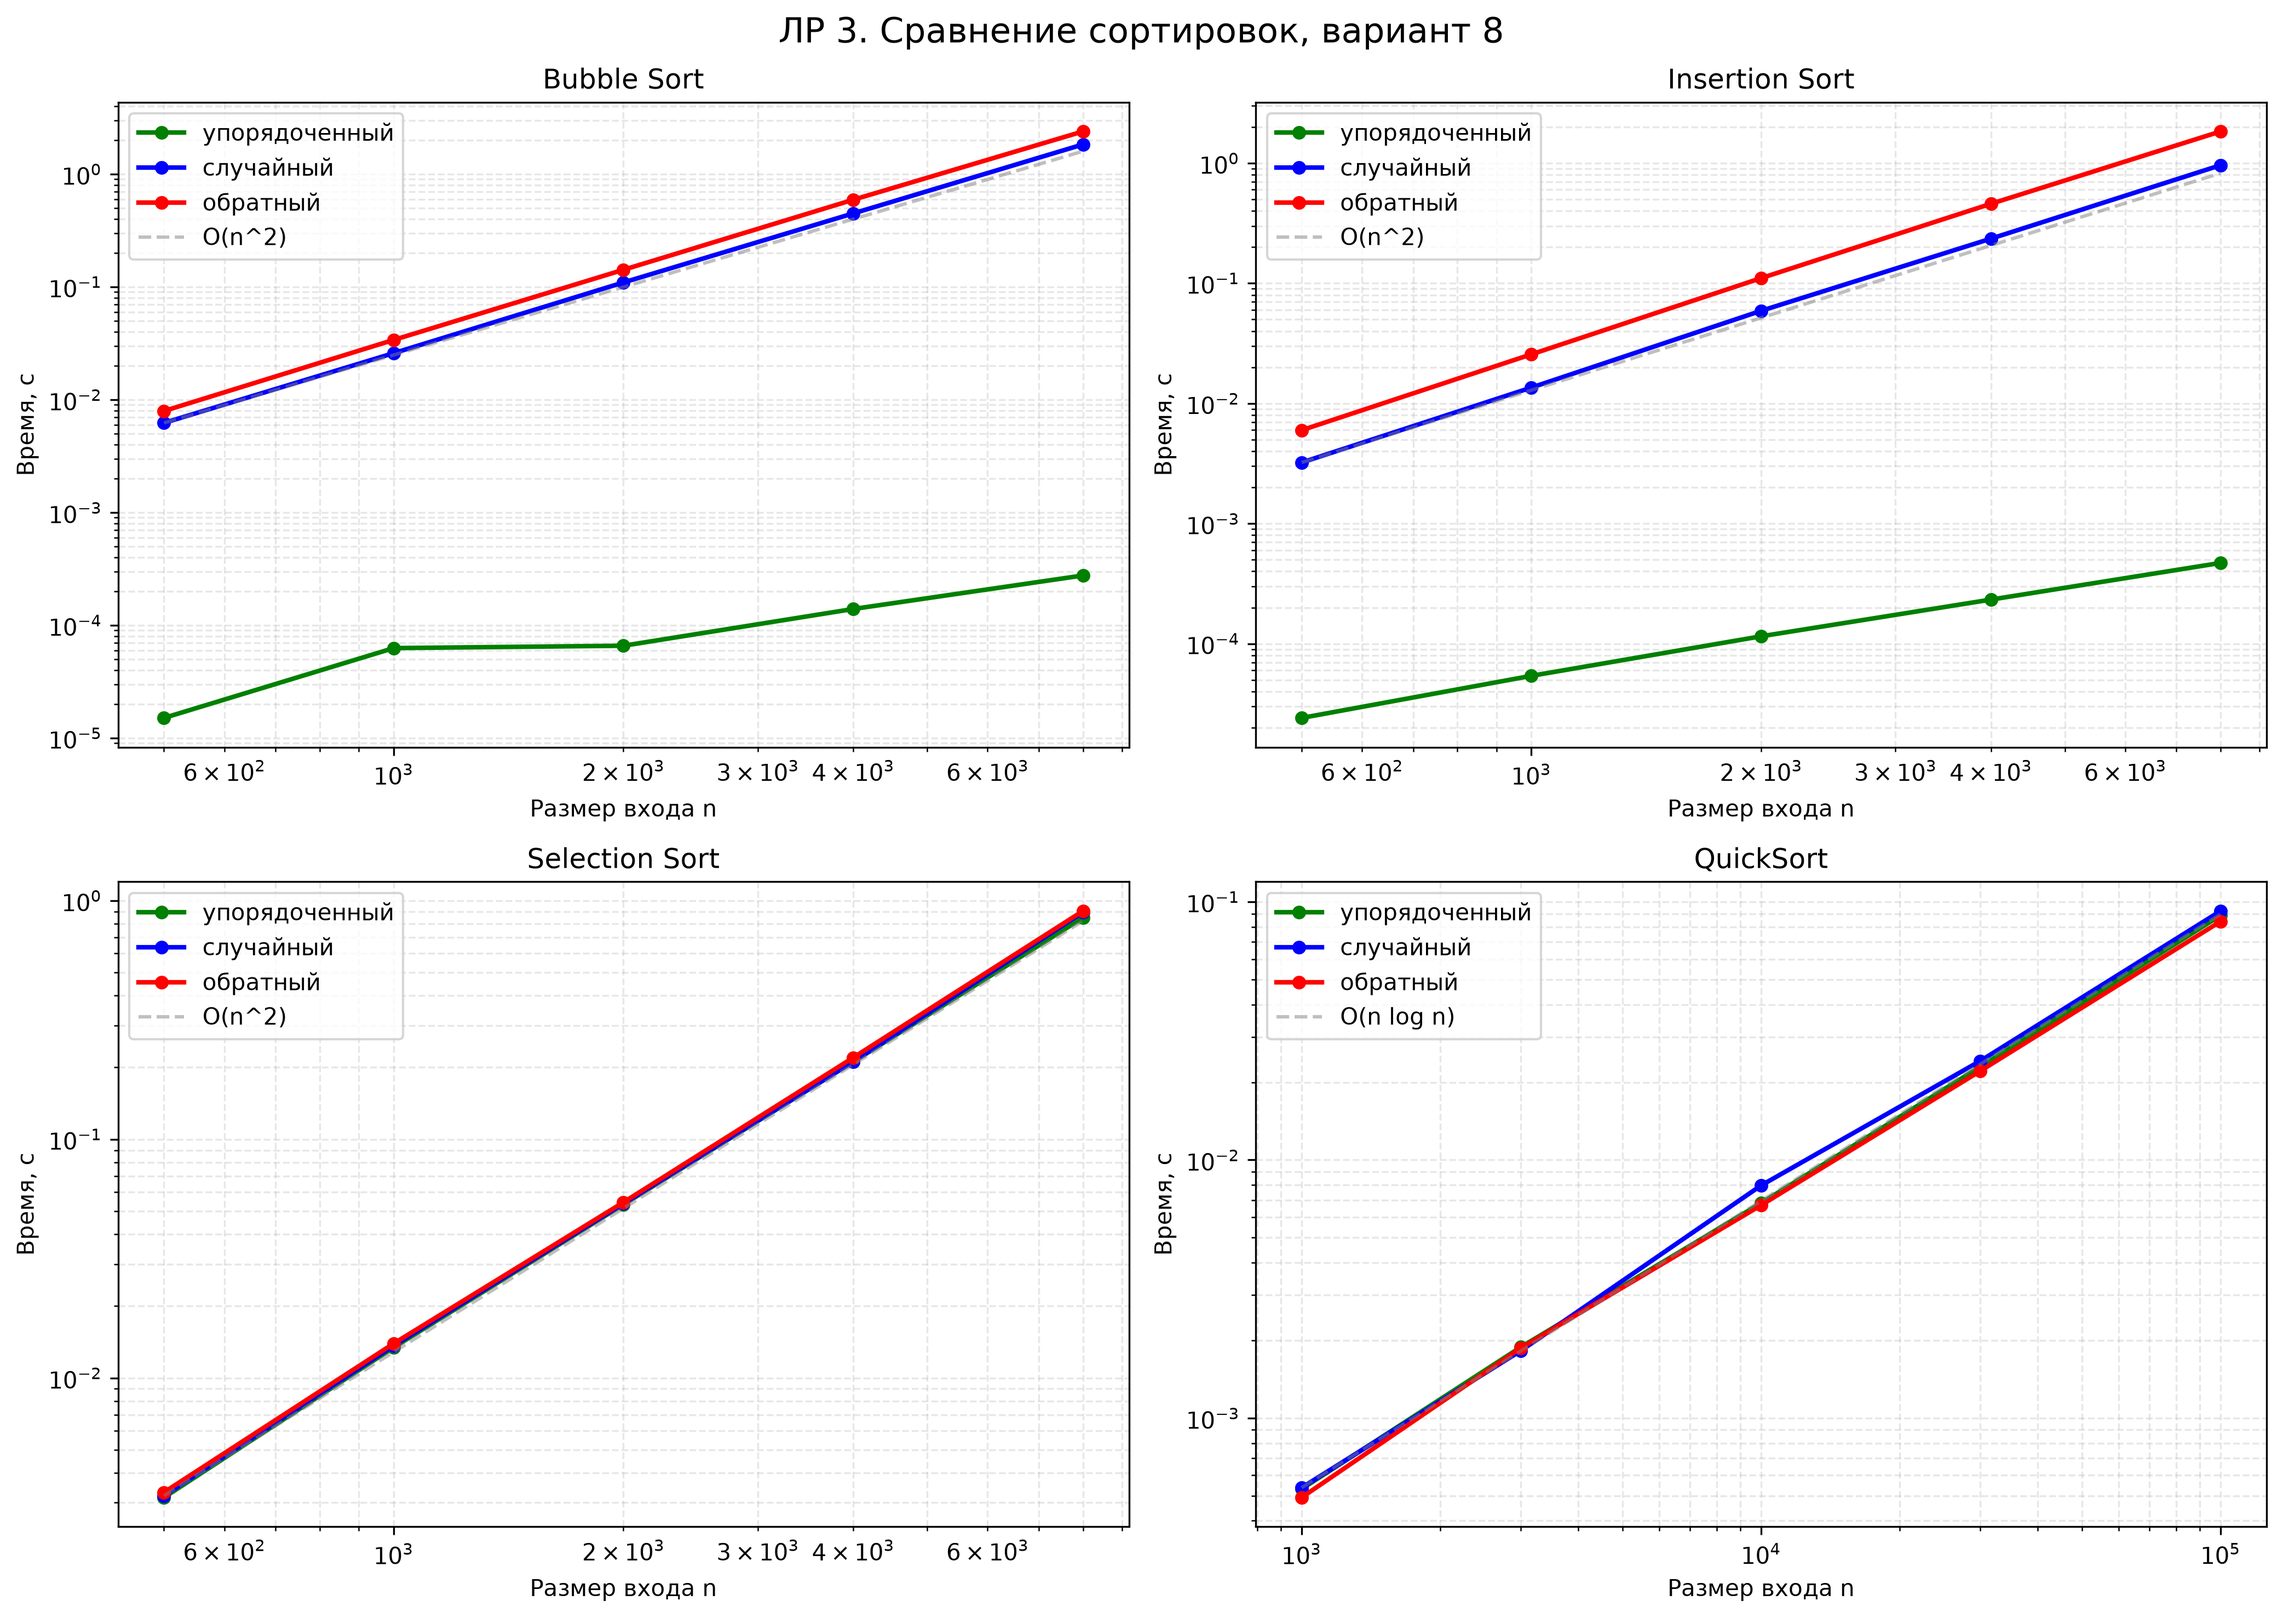
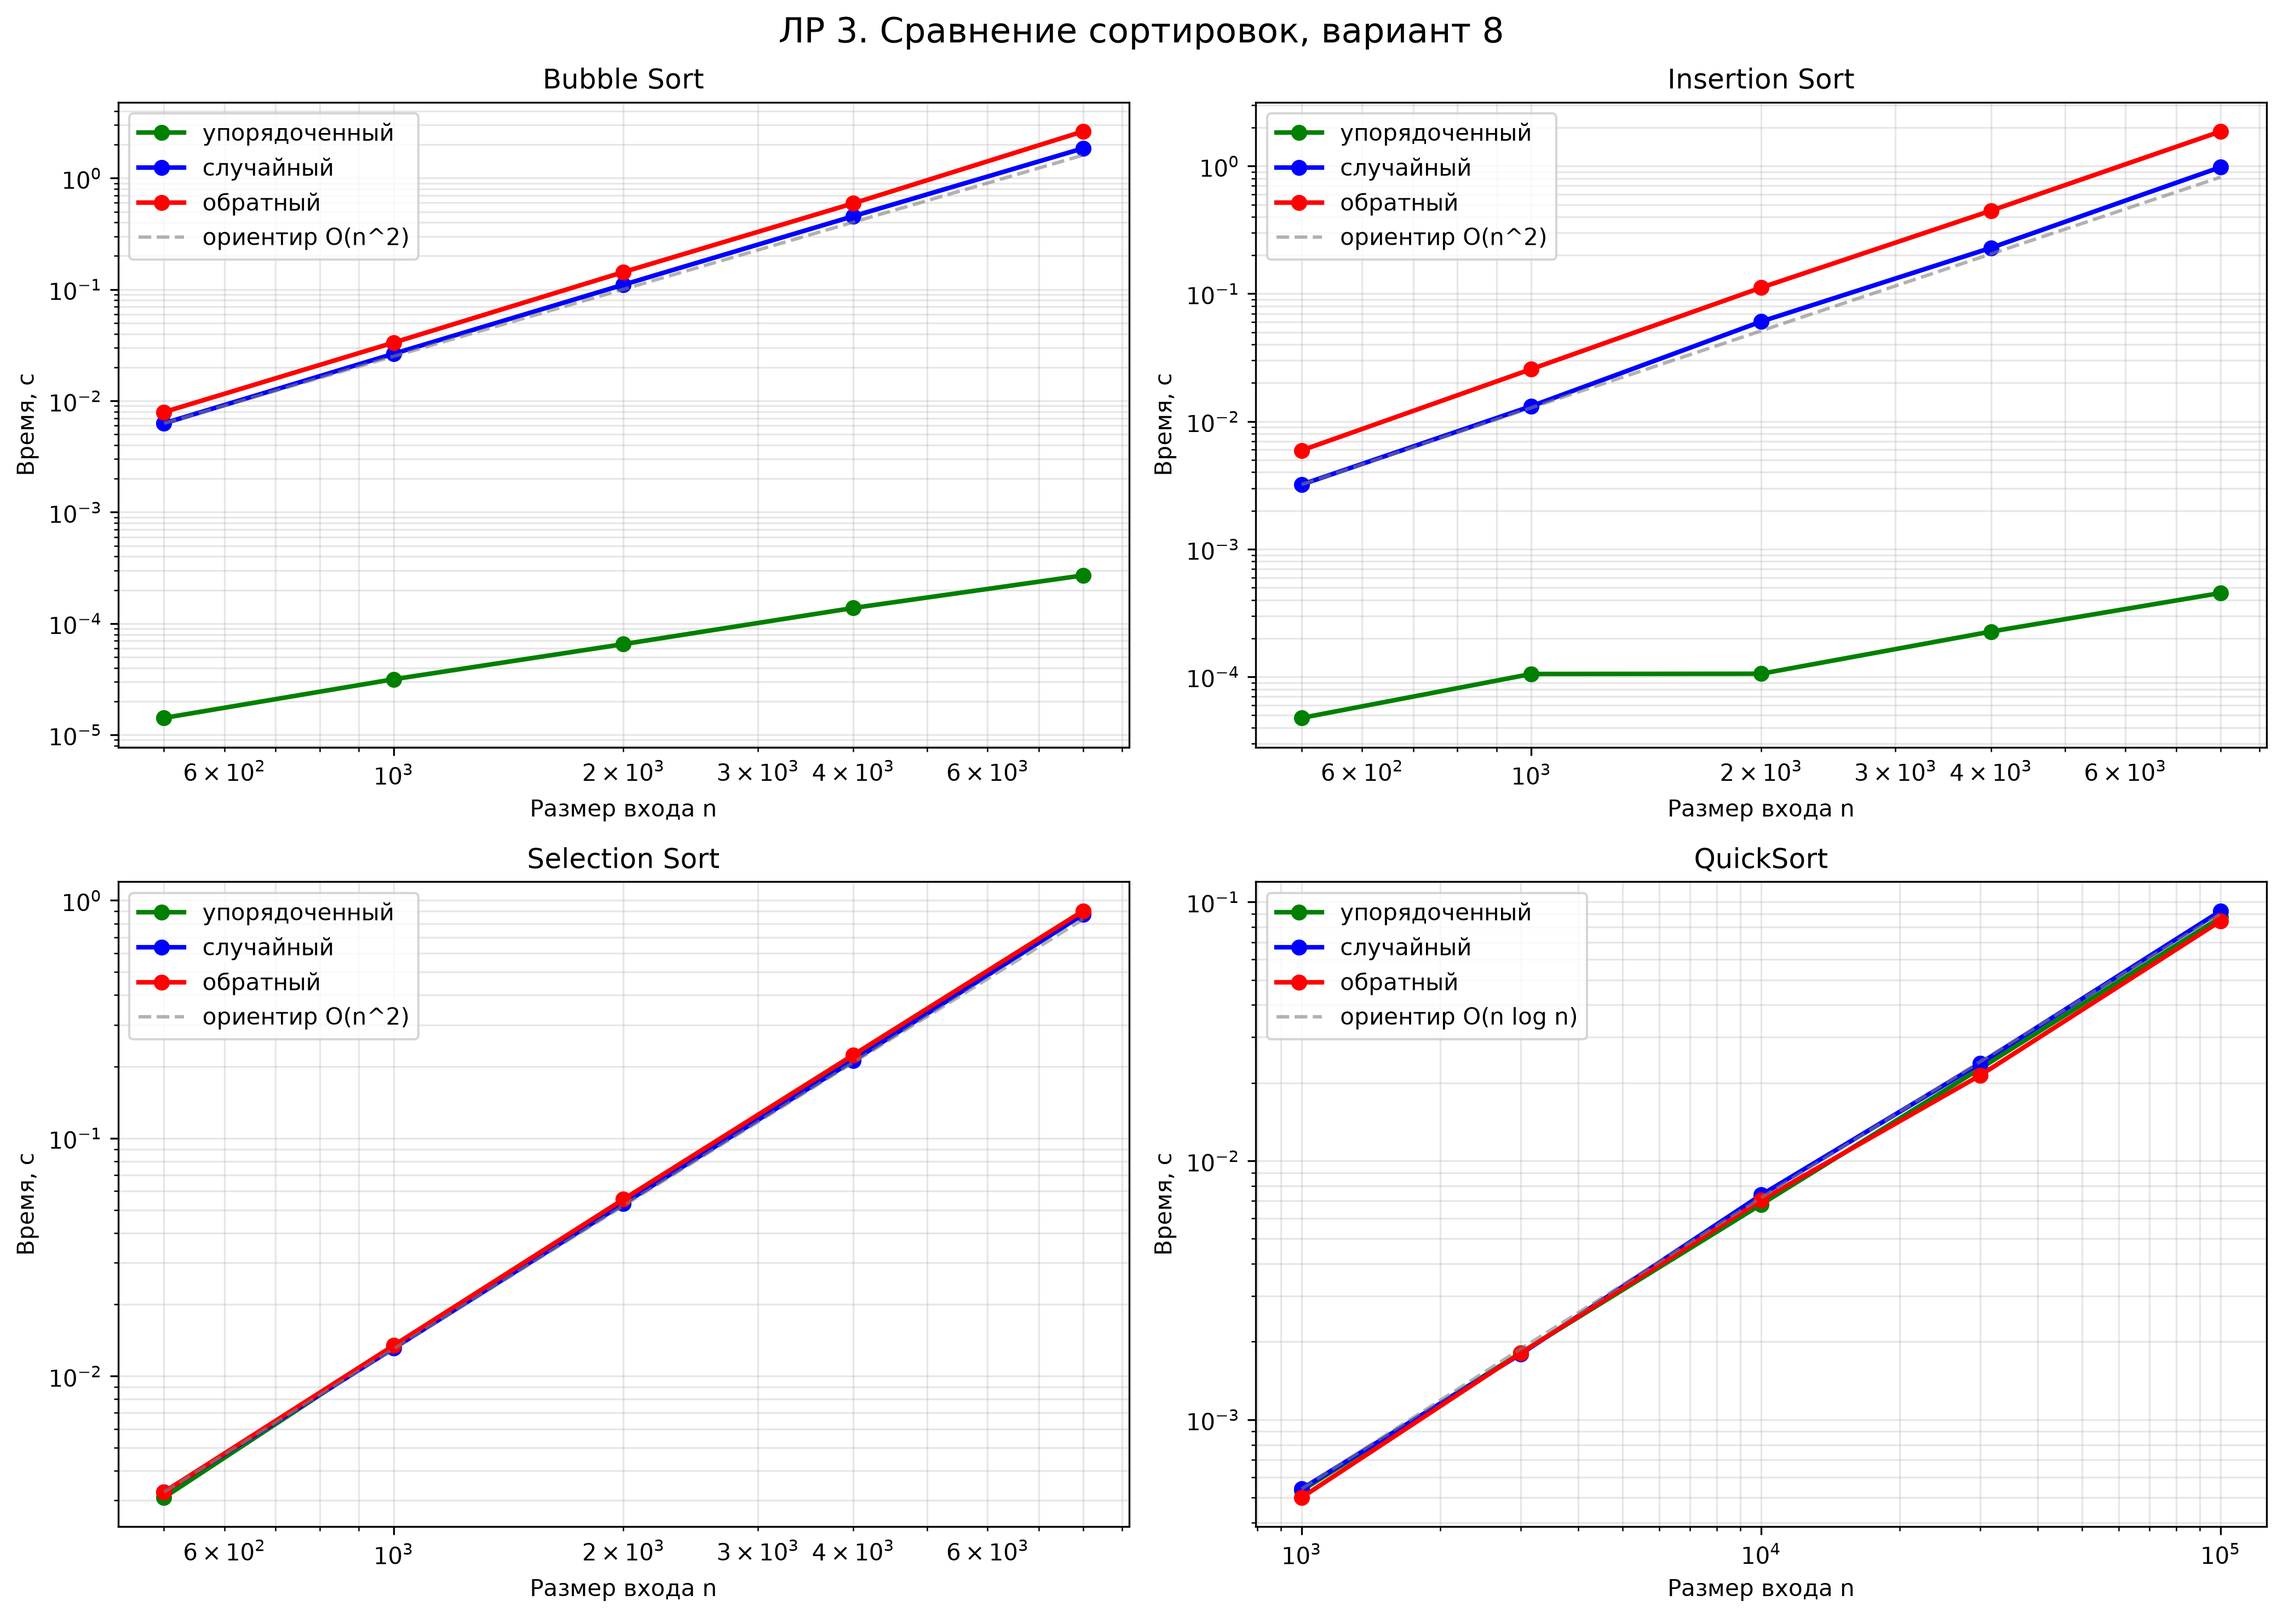
Исправление инвариантов

diff --git a/data-structures-and-algorithms-main/lab03/lab03_solution.py b/data-structures-and-algorithms-main/lab03/lab03_solution.py
@@ -273,7 +273,61 @@ def self_check() -> None:
     # Счётчики: у сортировки выбором ровно n*(n-1)/2 сравнений на любом входе.
     _, comparisons, _ = selection_sort([3, 1, 2, 5, 4])
     assert comparisons == 10, "selection_sort: неверный счётчик сравнений"
+
+        # --- Инвариант 1: число обменов bubble_sort = число инверсий ---
+    def count_inversions(a: list) -> int:
+        """Число пар (i, j), i < j, a[i] > a[j]."""
+        return sum(
+            1
+            for i in range(len(a))
+            for j in range(i + 1, len(a))
+            if a[i] > a[j]
+        )
+
+    rng = random.Random(0)
+    for _ in range(50):
+        a = [rng.randint(-50, 50) for _ in range(rng.randint(0, 40))]
+        _, _, swaps = bubble_sort(a)
+        inv = count_inversions(a)
+        assert swaps == inv, (
+            f"bubble_sort: обменов {swaps}, инверсий {inv} на {a}"
+        )
+    print("  [1] bubble_sort: обмены == инверсии — OK")
+
+    # --- Инвариант 2: досрочный выход на упорядоченном входе ---
+    for n in [1, 2, 5, 10, 100]:
+        sorted_input = list(range(n))
+        _, comparisons, _ = bubble_sort(sorted_input)
+        expected = max(n - 1, 0)
+        assert comparisons == expected, (
+            f"bubble_sort: на упорядоченном n={n} сравнений "
+            f"{comparisons}, ожидалось {expected}"
+        )
+    print("  [2] bubble_sort: n-1 сравнений на упорядоченном входе — OK")
+
+    # --- Инвариант 3: число сдвигов insertion_sort = число инверсий ---
+    for _ in range(50):
+        a = [rng.randint(-50, 50) for _ in range(rng.randint(0, 40))]
+        _, _, shifts = insertion_sort(a)
+        inv = count_inversions(a)
+        assert shifts == inv, (
+            f"insertion_sort: сдвигов {shifts}, инверсий {inv} на {a}"
+        )
+    print("  [3] insertion_sort: сдвиги == инверсии — OK")
+
+    # --- Инвариант 4: selection_sort всегда n(n-1)/2 сравнений ---
+    for n in [1, 2, 5, 10, 100]:
+        expected = n * (n - 1) // 2
+        for cls_name, data in make_inputs(n, seed=42).items():
+            _, comparisons, _ = selection_sort(data)
+            assert comparisons == expected, (
+                f"selection_sort: на n={n} ({cls_name}) сравнений "
+                f"{comparisons}, ожидалось {expected}"
+            )
+    print("  [4] selection_sort: n(n-1)/2 сравнений на любом входе — OK")
+
     print("self_check: OK")
+
 
 
 # ---------------------------------------------------------------------------

diff --git a/data-structures-and-algorithms-main/lab03/report.md b/data-structures-and-algorithms-main/lab03/report.md
@@ -245,14 +245,25 @@ Bubble и Insertion Sort чувствительны к исходной упор
 
 ### 5.2. Собственные инварианты
 
-- **Bubble/Insertion:** на парах (ключ, метка) сохраняется относительный порядок равных ключей — стабильность подтверждена.
-- **Selection/QuickSort:** теоретически нестабильны; на малом конкретном входе случайно сохранили порядок, но это не опровергает нестабильность в общем случае.
+Дополнительно реализованы 4 собственных инвариантов
+
+**Инвариант 1. Bubble Sort: число обменов = число инверсий.**
+Классическое свойство: каждый обмен в пузырьке устраняет ровно одну инверсию во входе. Проверено на 50 случайных массивах длины 0–40: `swaps == count_inversions(a)` всегда выполняется. Это позволяет использовать bubble_sort как «эталон» для подсчёта инверсий.
+
+**Инвариант 2. Bubble Sort: досрочный выход даёт n−1 сравнений.**
+На упорядоченном входе длины n внешний цикл делает ровно один проход: n−1 сравнение, 0 обменов, затем `swapped == False` и `break`. Проверено на n ∈ {1, 2, 5, 10, 100}: `comparisons == n − 1`. Это экспериментально подтверждает, что флаг `swapped` реально экономит ~n² сравнений.
+
+**Инвариант 3. Insertion Sort: число сдвигов = число инверсий.**
+Аналогично пузырьку: каждый сдвиг в insertion_sort переносит элемент на одну позицию влево, устраняя ровно одну инверсию. Проверено на 50 случайных массивах: `shifts == count_inversions(a)`. Это объясняет, почему при N=1000 у Bubble и Insertion **одинаковое** число обменов/сдвигов (2478, 64027, 244509) — оба устраняют все инверсии входа.
+
+**Инвариант 4. Selection Sort: всегда n(n−1)/2 сравнений.**
+Проверено на n ∈ {1, 2, 5, 10, 100} и всех трёх классах входов: `comparisons == n(n−1)/2` всегда. Это прямое экспериментальное подтверждение того, что внутренний цикл не имеет раннего выхода.
 
 ### 5.3. Сверка с эталоном
 
 - 300 случайных массивов против `sorted()` — полное совпадение для всех 4 алгоритмов.
 - Демонстрация стабильности — порядок меток совпал с ожидаемым для стабильных алгоритмов.
-
+- Собственные инварианты — все 4 прошли.
 ---
 
 ## 6. Выводы
